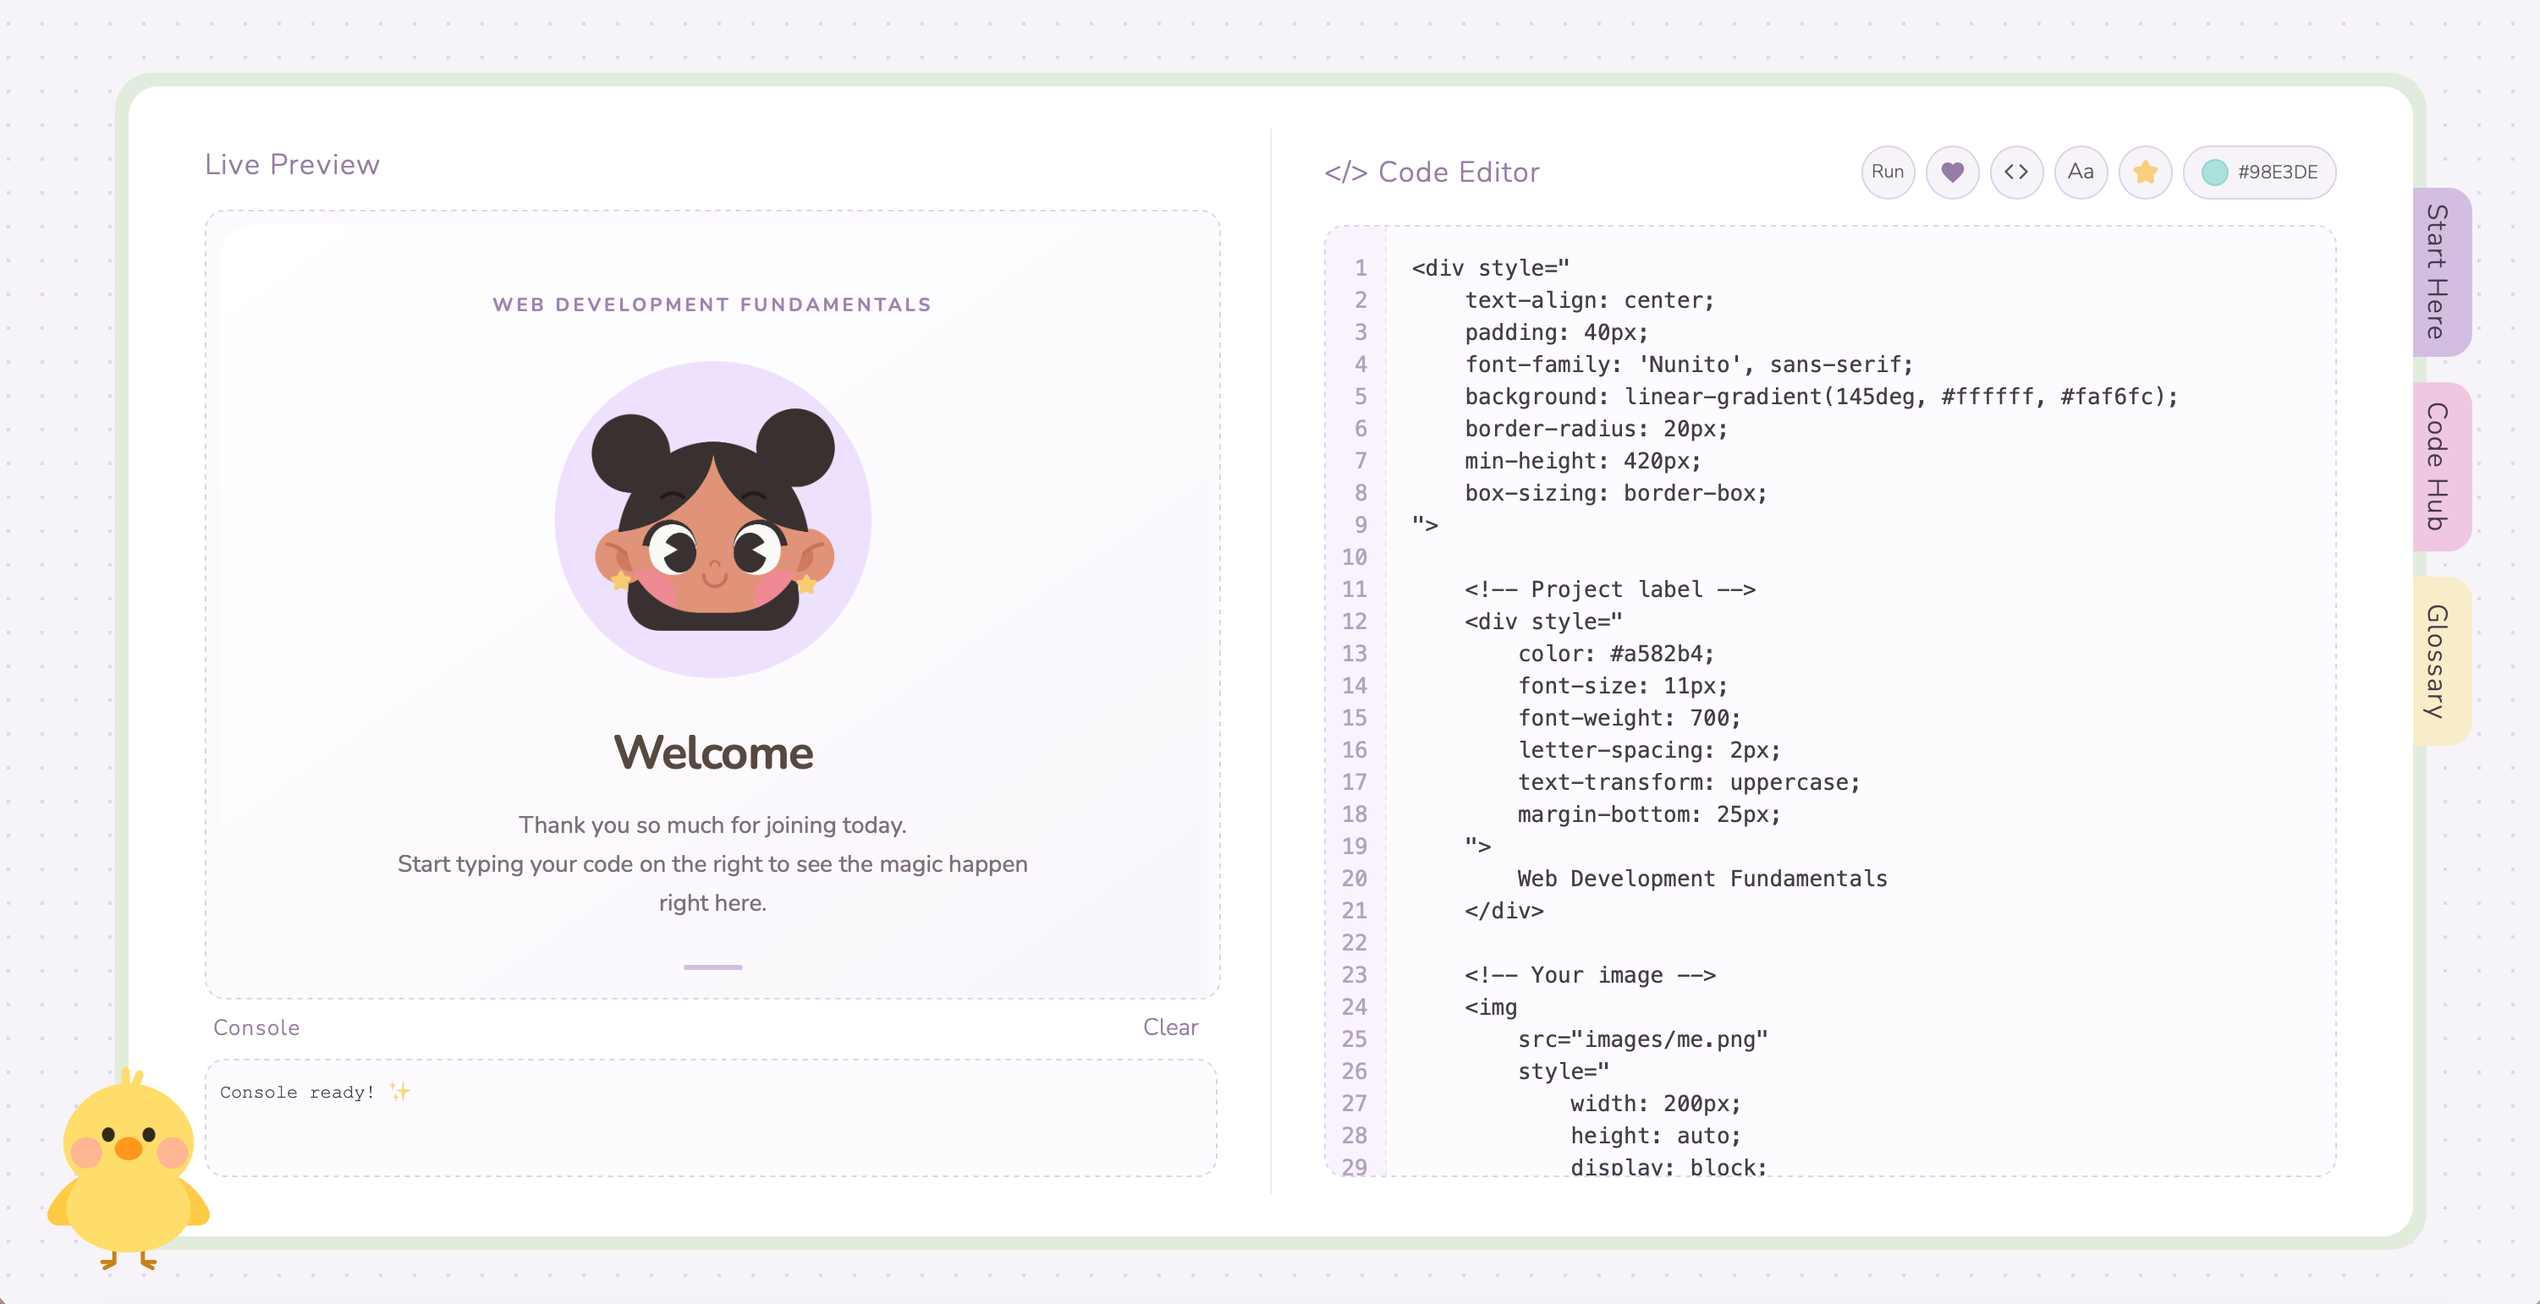
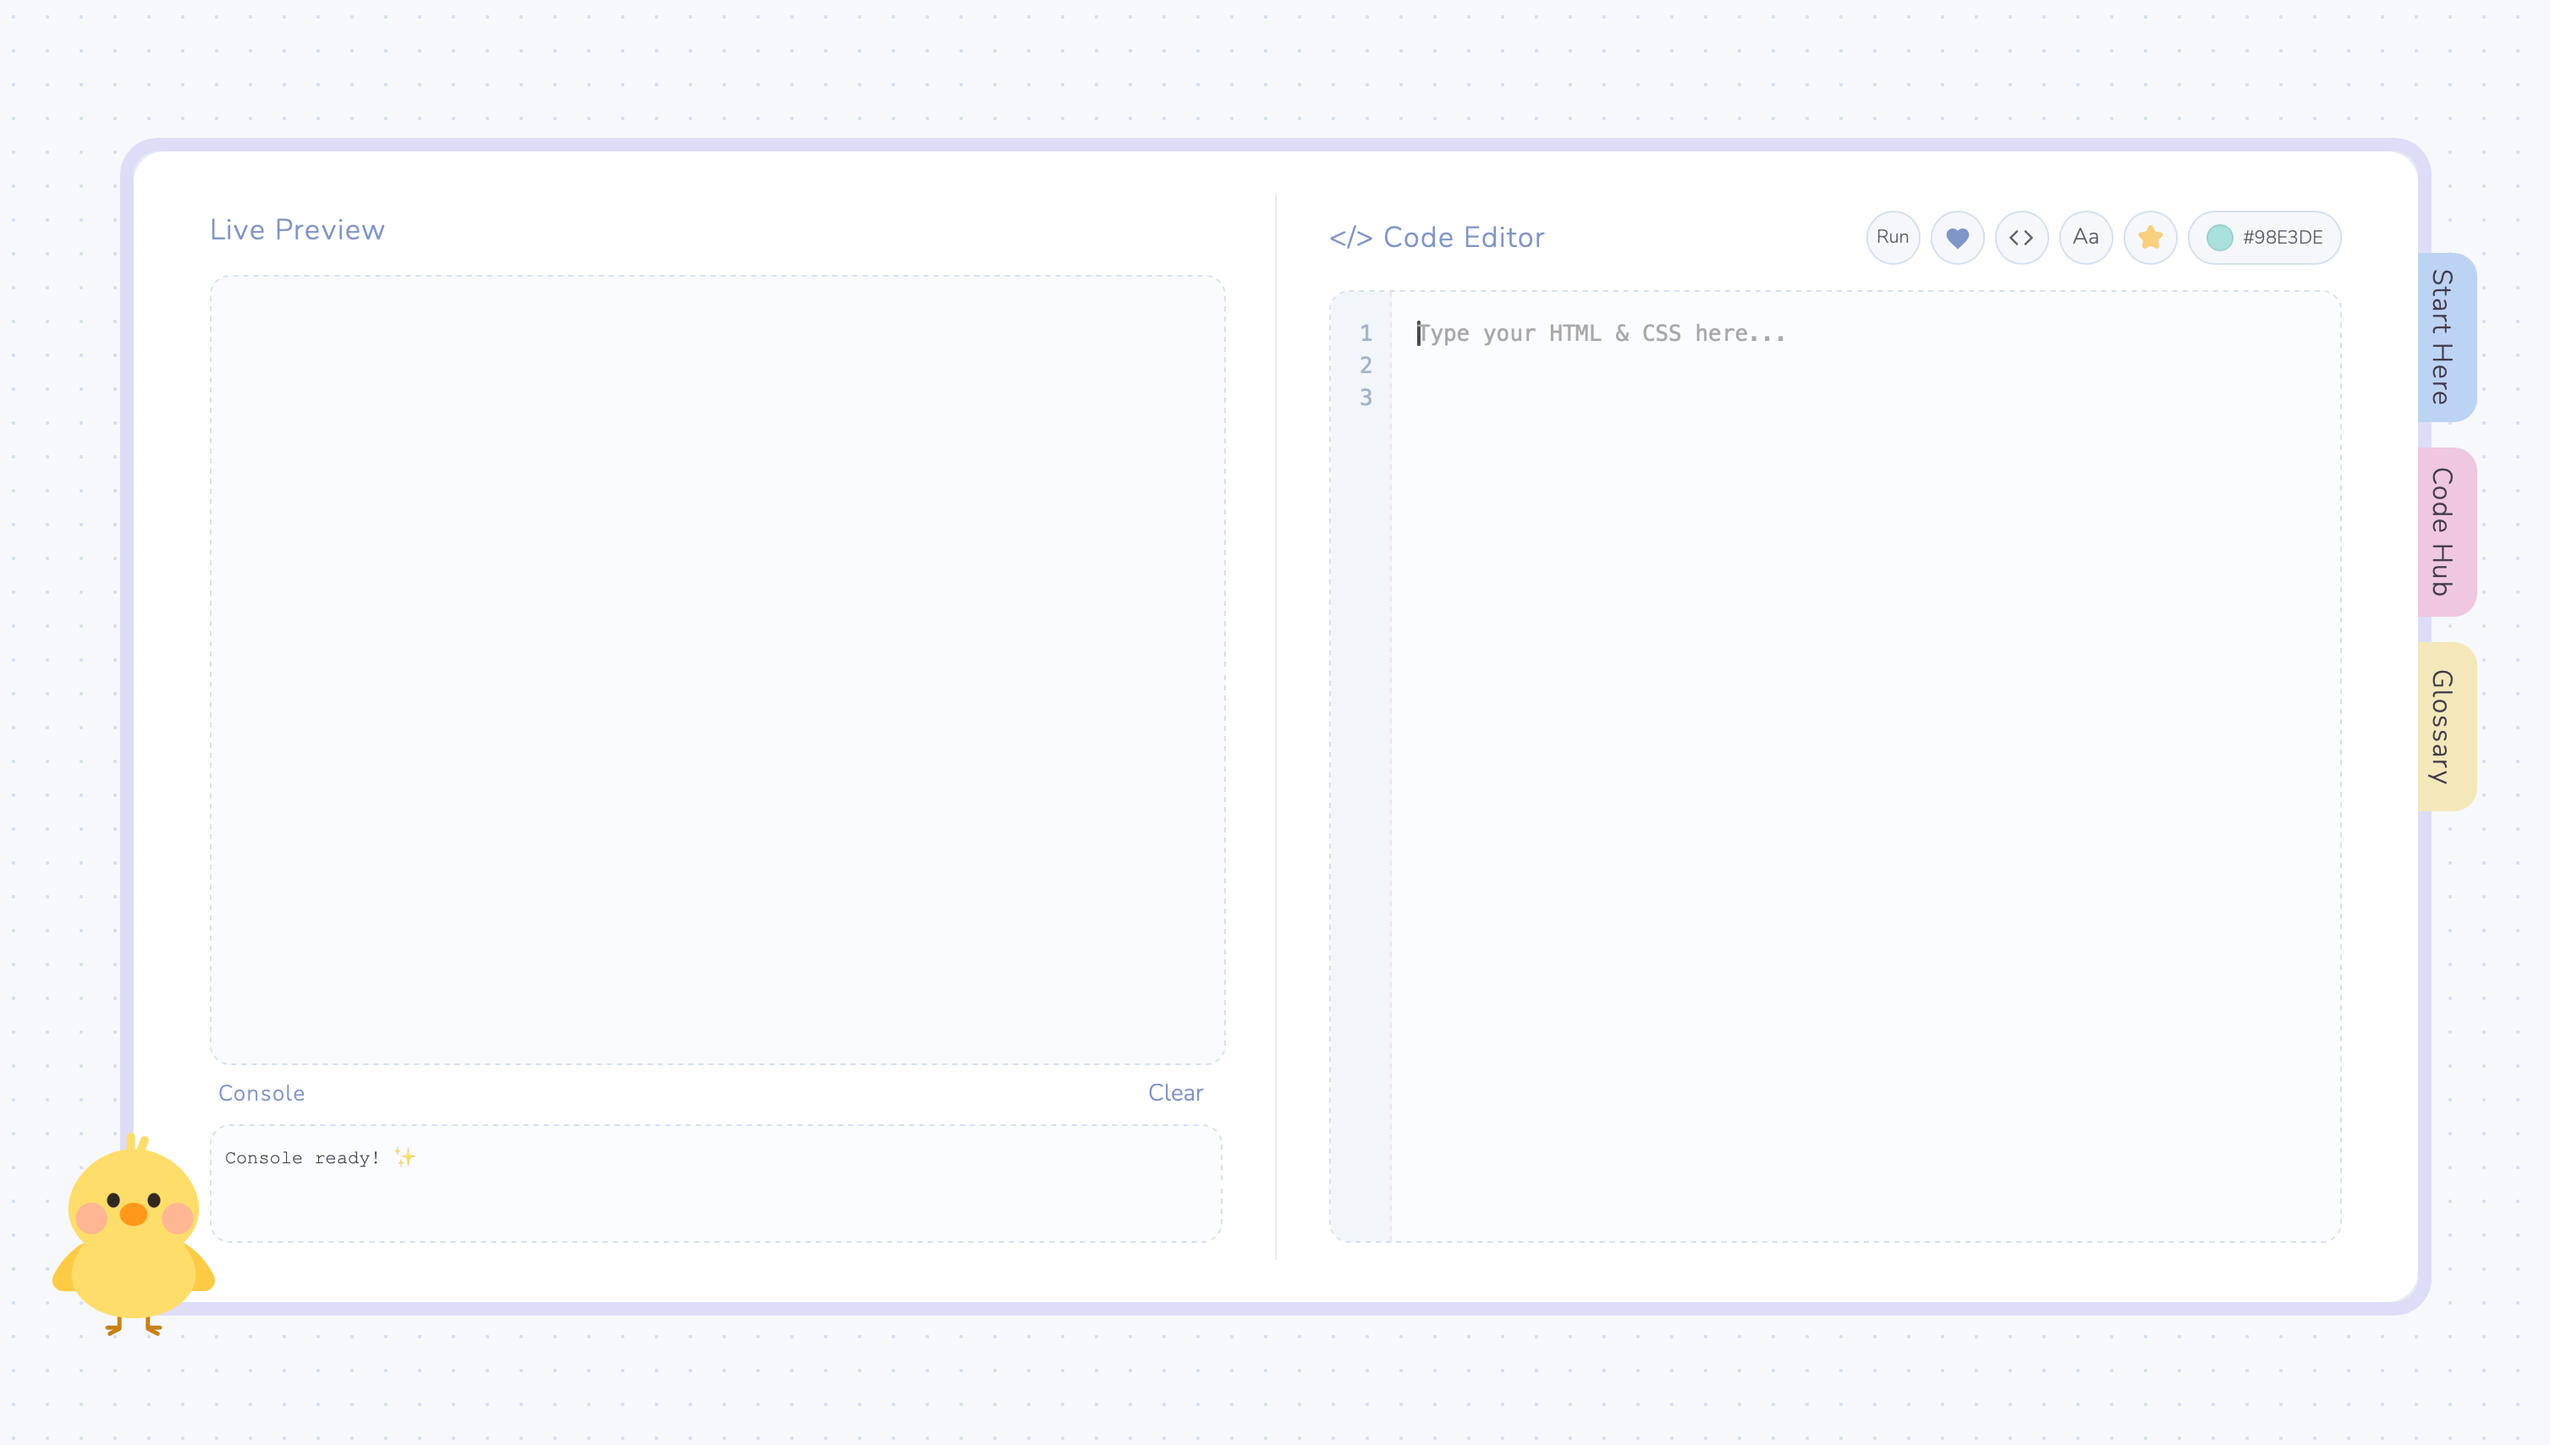
.

diff --git a/styles.css b/styles.css
@@ -464,7 +464,7 @@ footer {
     grid-column: span 7;
     height: 440px;
    
-        background-image: url('images/Amorous.png');
+        background-image: url('images/Aster.png');
     background-repeat: no-repeat;
     background-size: cover;
     background-position: right(-5px);
@@ -474,10 +474,13 @@ footer {
     grid-column: span 5;
     height: 440px;
     background: var(--accent-blue);
-    background-image: url('images/Choices.png');
+    background-image: url('images/Butterfly.png');
     background-repeat: no-repeat;
     background-size: cover;
+    background-position: center; 
 }
+
+
 
 .project-3 {
     grid-column: span 5;
@@ -498,21 +501,11 @@ footer {
     background-position: center; 
 }
 
-.project-5 {
-    grid-column: span 12;
-    height: 360px;
-    background: #FF8AD8;
-      background-image: url('images/Heart.gif');
-    background-repeat: no-repeat;
-    background-size: cover; 
-    background-position: center;
-}
-
 .project-6 {
     grid-column: span 6;
     height: 360px;
     background: #FF8AD8;
-      background-image: url('images/Duck.gif');
+      background-image: url('images/Amorous.png');
     background-repeat: no-repeat;
     background-size: cover; 
     background-position: center;
@@ -523,7 +516,7 @@ footer {
     grid-column: span 6;
     height: 360px;
     background: #FF8AD8;
-      background-image: url('images/Arrow.gif');
+     background-image: url('images/Heart.gif');
     background-repeat: no-repeat;
     background-size: cover; 
     background-position: center;
